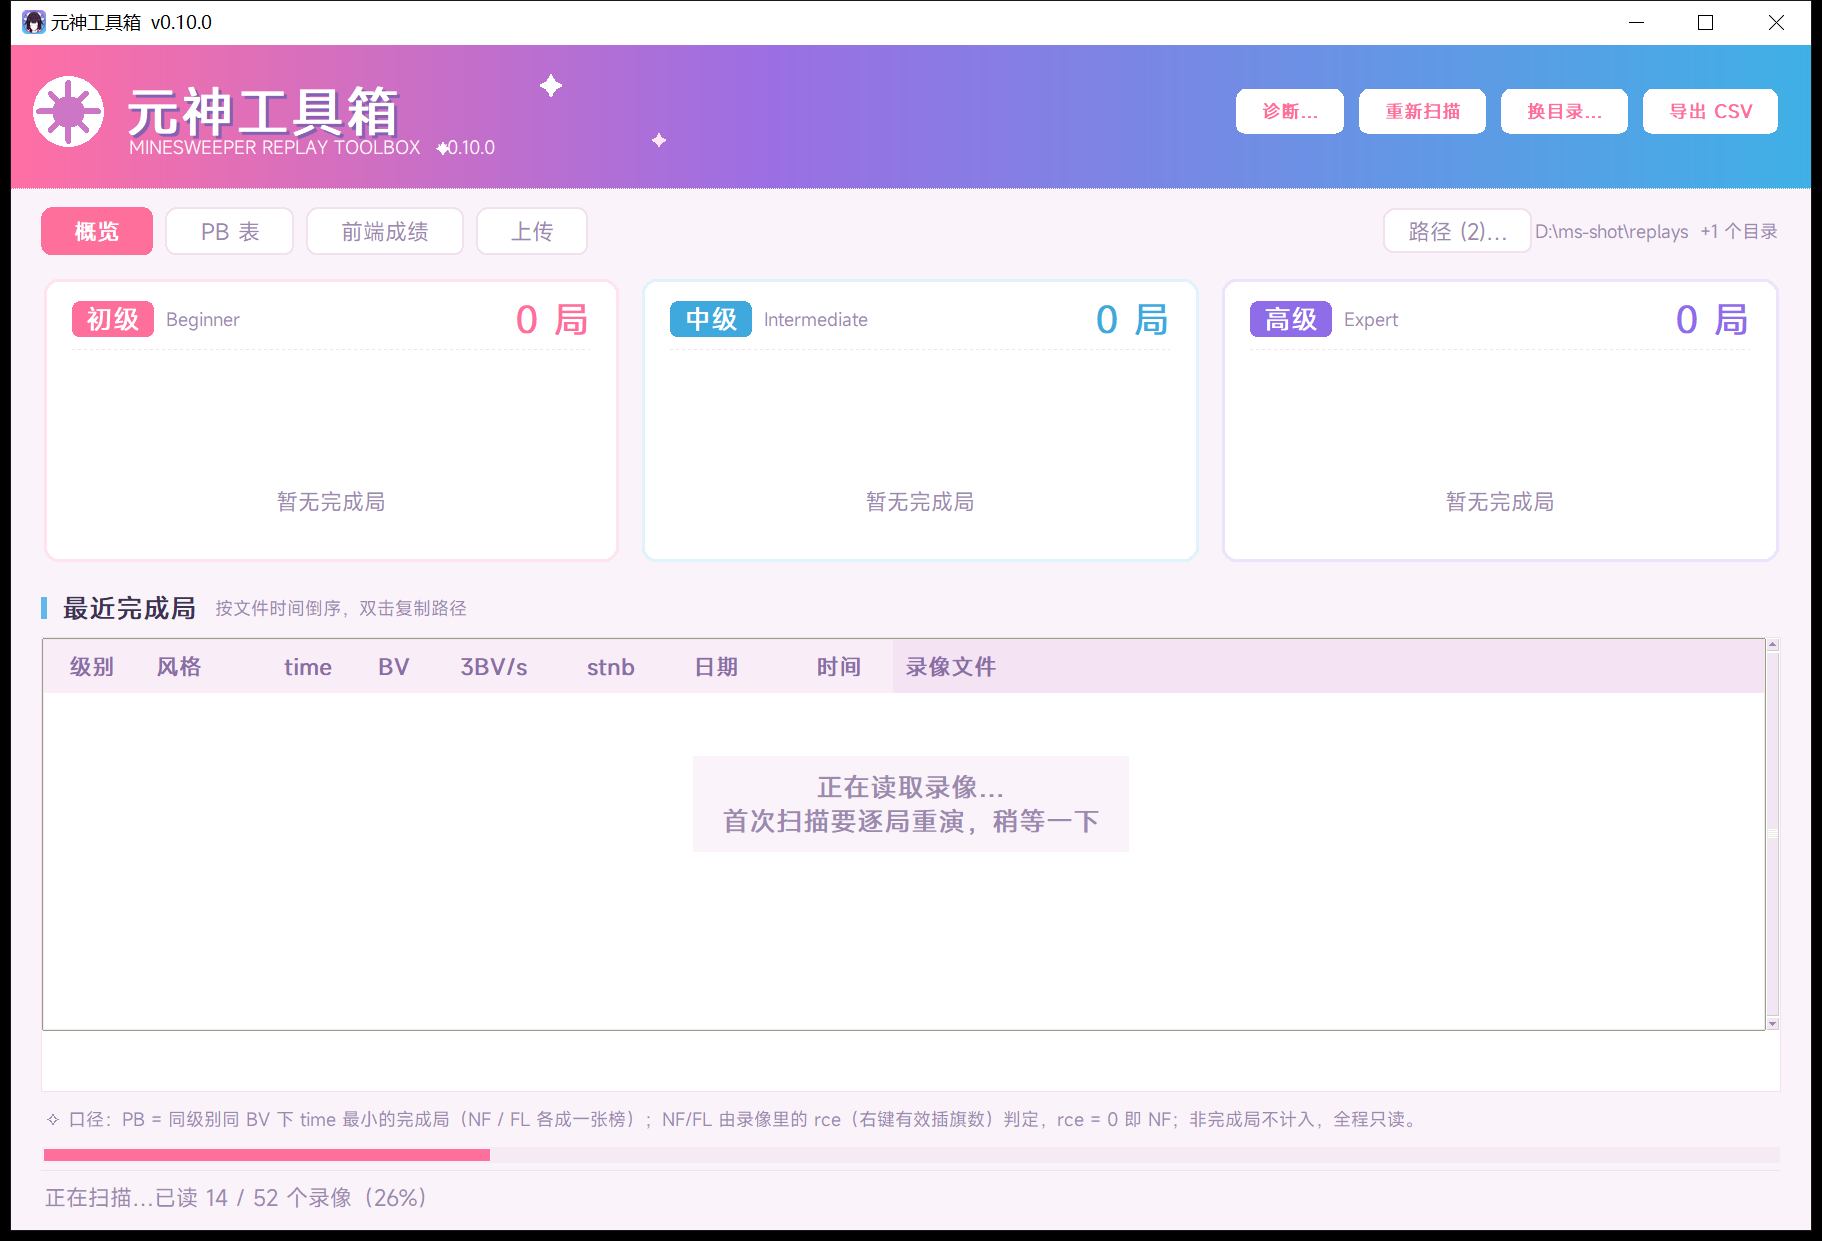
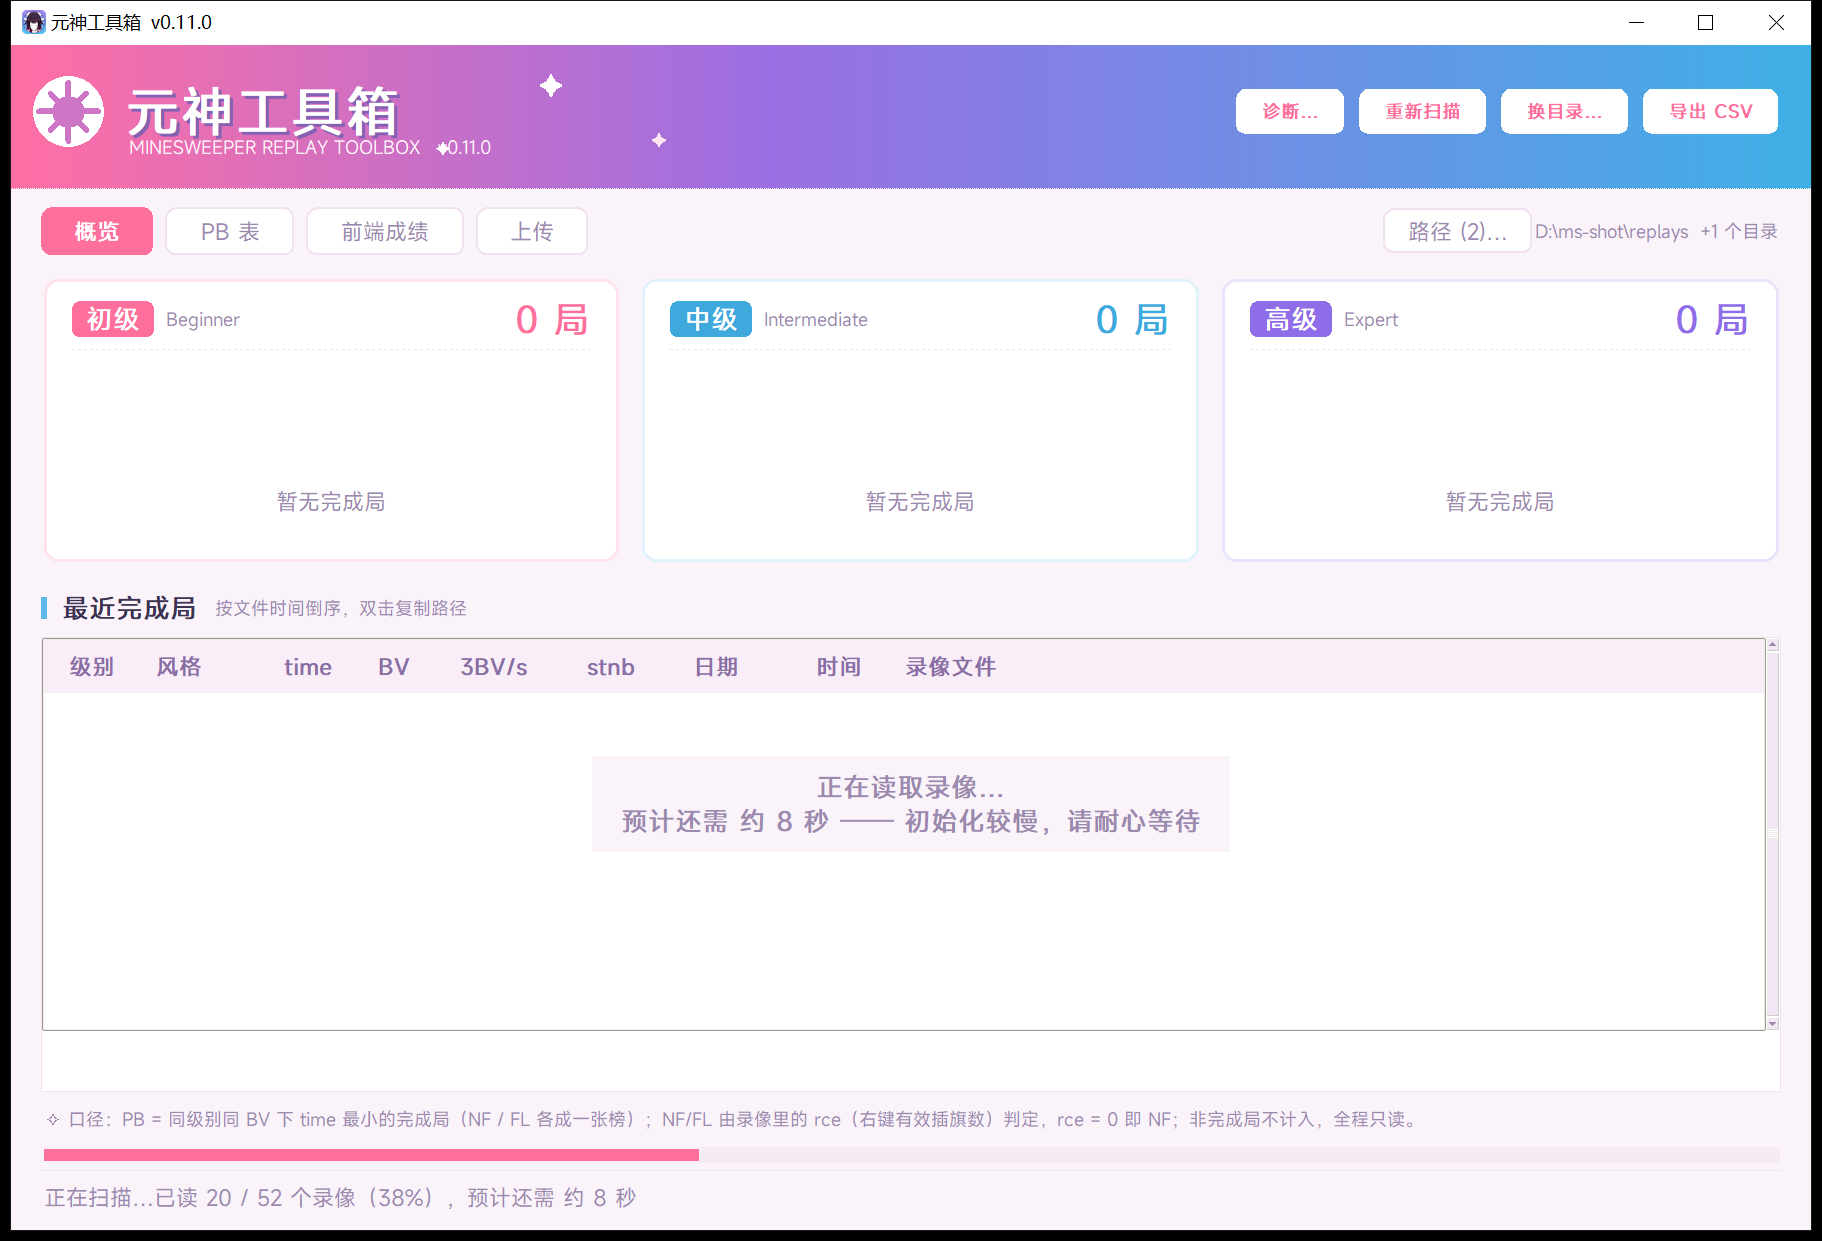
扫描进度显示预计剩余时间，明示初始化较慢请耐心等待

Changed region(s): [[0.1229, 0.9186, 0.3996, 0.9799], [0.3381, 0.643, 0.6762, 0.6737]]

diff --git a/app.py b/app.py
@@ -14,6 +14,7 @@ import queue
 from datetime import datetime
 import sys
 import threading
+import time
 import tkinter as tk
 import tkinter.font as tkfont
 from tkinter import ttk, filedialog, messagebox
@@ -1583,7 +1584,7 @@ class App(tk.Tk):
         _, self.tbl_recent = self._table(page, cols, height=5)
 
         # 首扫时盖在内容区正中（place 不进布局，扫完 place_forget）
-        self.lbl_boot = tk.Label(page, text="正在读取录像…\n首次扫描要逐局重演，稍等一下",
+        self.lbl_boot = tk.Label(page, text="正在读取录像…\n初始化要逐局重演录像，会比较慢，请耐心等待",
                                  bg=C_BG, fg=C_DIM, font=FONT_SECTION, justify="center",
                                  padx=sc(18), pady=sc(8))
 
@@ -2402,11 +2403,18 @@ class App(tk.Tk):
                         self.set_status("正在扫描…0 / %d 个录像" % payload, "dim")
                 elif kind == "scan":
                     pct = self._progress_set(payload)
+                    eta = self._scan_eta_text()
                     # 队列里可能一次积压上百个点，只在百分比真的变了才刷文字
                     if pct is not None and pct != self._scan_pct:
                         self._scan_pct = pct
-                        self.set_status("正在扫描…已读 %d / %d 个录像（%d%%）"
-                                        % (payload, self._scan_total, pct), "dim")
+                        txt = "正在扫描…已读 %d / %d 个录像（%d%%）" \
+                              % (payload, self._scan_total, pct)
+                        if eta:
+                            txt += "，预计还需 %s" % eta
+                        self.set_status(txt, "dim")
+                        if eta:
+                            self.lbl_boot.config(
+                                text="正在读取录像…\n预计还需 %s —— 初始化较慢，请耐心等待" % eta)
                     elif pct is None:
                         self.set_status("正在扫描…已读到 %d 个录像" % payload, "dim")
                 elif kind == "up_end":
@@ -2628,6 +2636,7 @@ class App(tk.Tk):
         self._scan_total = 0
         self._scan_done = 0
         self._scan_pct = -1
+        self._scan_t0 = time.monotonic()
         if not self.pbar_box.winfo_ismapped():
             self.pbar_box.pack(side="bottom", fill="x", padx=sc(20), pady=(sc(6), 0))
         self.pbar.config(mode="indeterminate", value=0, maximum=100)
@@ -2656,6 +2665,20 @@ class App(tk.Tk):
         pct = min(100, self._scan_done * 100 // self._scan_total)
         self.pbar.config(value=pct)
         return pct
+
+    def _scan_eta_text(self):
+        """按「已读 / 用时」估剩余时间；开局前几秒速率不稳，先不报。"""
+        if not self._scan_total or self._scan_done <= 0:
+            return ""
+        elapsed = time.monotonic() - getattr(self, "_scan_t0", 0)
+        if elapsed < 3:
+            return ""
+        remain = (self._scan_total - self._scan_done) * elapsed / self._scan_done
+        if remain < 5:
+            return ""
+        if remain < 60:
+            return "约 %d 秒" % int(remain)
+        return "约 %d 分 %02d 秒" % (remain // 60, remain % 60)
 
     def _progress_end(self):
         try:

diff --git a/README.md b/README.md
@@ -49,9 +49,9 @@
 4. 选一次就记住，以后双击直接出结果。
 
 > **读取时有进度条**：窗口一亮就开始清点录像文件（零头都不到一秒），随后底部出现一条
-> 进度条和「已读 12345 / 22320 个录像（55%）」，概览页正中写着「正在读取录像…」。
-> 第一次扫描要逐局重演录像（2 万局约 3 分钟），之后走缓存是一秒级；扫描在后台线程，
-> 进度条不会卡住窗口。
+> 进度条和「已读 12345 / 22320 个录像（55%），预计还需约 1 分 40 秒」，概览页正中也会显示
+> 预计剩余时间。**第一次扫描（初始化）要逐局重演录像，会比较慢**（2 万局约 3 分钟），
+> 请耐心等待；之后走缓存是一秒级。扫描在后台线程，进度条不会卡住窗口。
 
 ![读取进度](docs/loading.png)
 
